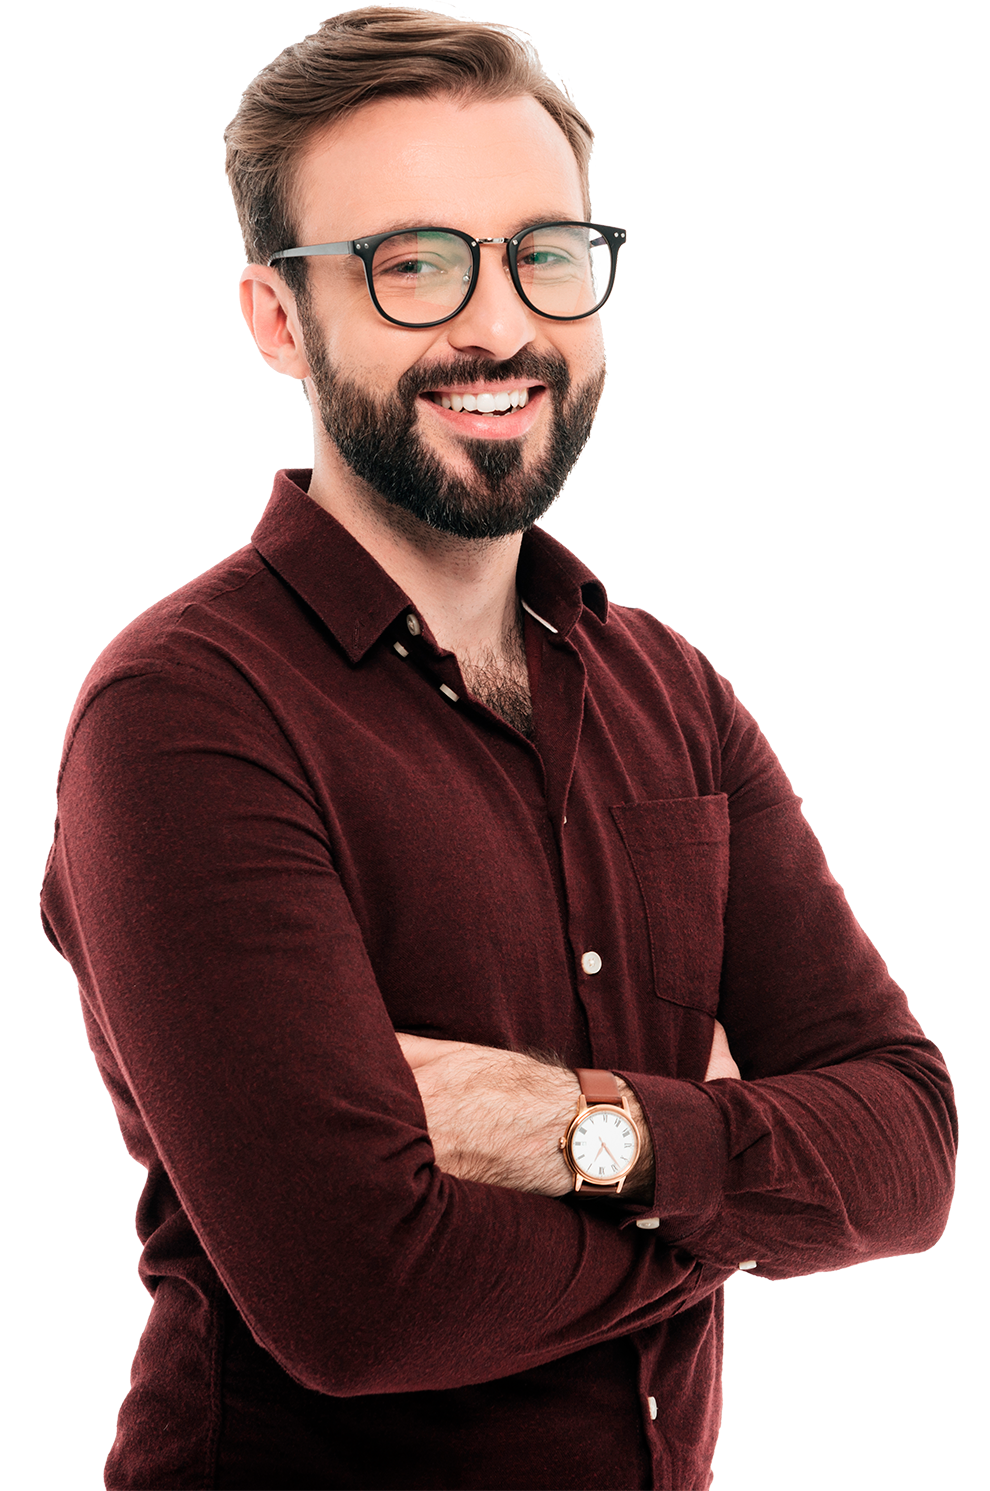
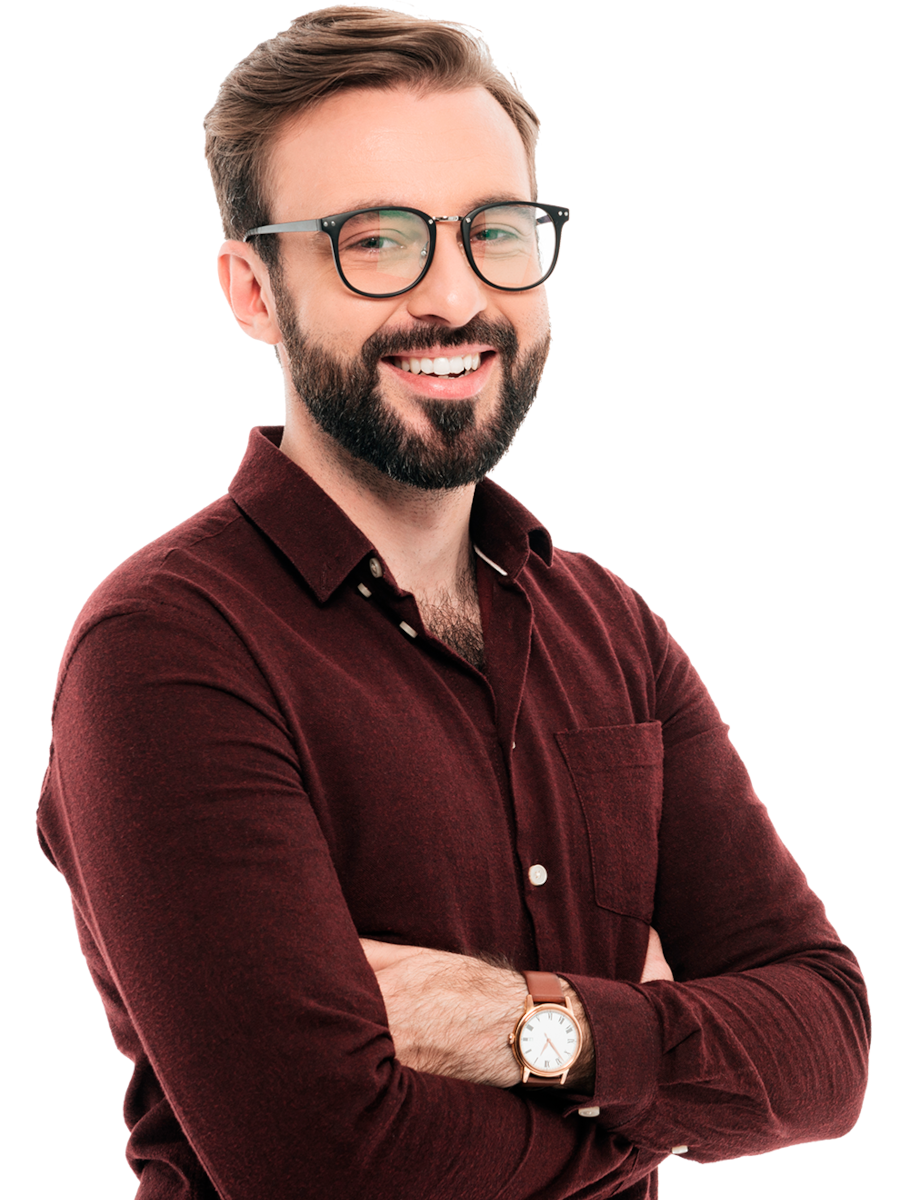
Обновление фоток на странице "О нас"

diff --git a/html/about-us.html b/html/about-us.html
@@ -50,22 +50,22 @@
                 <p>Международный мастер</p>
             </div>
             <div class="teacher-card">
-                <img src="/img/teacher3.jpg" alt="Тренер 3">
+                <img src="/img/teacher3.png" alt="Тренер 3">
                 <h3>Алексей Волков</h3>
                 <p>Преподаёт 15 лет</p>
                 <p>ФИДЕ мастер</p>
+            </div>
+            <div class="teacher-card">
+                <img src="/img/teacher5.png" alt="Тренер 5">
+                <h3>Сергей Егоров</h3>
+                <p>Преподаёт 11 лет</p>
+                <p>Гроссмейстер</p>
             </div>
             <div class="teacher-card">
                 <img src="/img/teacher4.png" alt="Тренер 4">
                 <h3>Наталья Орлова</h3>
                 <p>Преподаёт 7 лет</p>
                 <p>КМС</p>
-            </div>
-            <div class="teacher-card">
-                <img src="/img/teacher5.jpg" alt="Тренер 5">
-                <h3>Сергей Егоров</h3>
-                <p>Преподаёт 11 лет</p>
-                <p>Гроссмейстер</p>
             </div>
         </div>
     </section>
@@ -100,25 +100,25 @@
         <h2>Отзывы родителей</h2>
         <div class="reviews-slider">
             <div class="review">
-                <img src="/img/parent1.jpg" alt="Родитель 1">
+                <img src="/img/parent1.png" alt="Родитель 1">
                 <p class="stars">★★★★★</p>
                 <p>«Отличная школа! Ребёнок в восторге от занятий и уже стал играть сильнее меня!»</p>
                 <h4>Ольга, мама Артёма</h4>
             </div>
             <div class="review">
-                <img src="/img/parent2.jpg" alt="Родитель 2">
+                <img src="/img/parent2.png" alt="Родитель 2">
                 <p class="stars">★★★★★</p>
                 <p>«Тренеры очень внимательные и профессиональные. Мы довольны результатом!»</p>
                 <h4>Александр, папа Кати</h4>
             </div>
             <div class="review">
-                <img src="/img/parent3.jpg" alt="Родитель 3">
+                <img src="/img/parent3.png" alt="Родитель 3">
                 <p class="stars">★★★★★</p>
                 <p>«Сын стал собраннее и научился мыслить стратегически. Спасибо школе!»</p>
                 <h4>Татьяна, мама Ильи</h4>
             </div>
             <div class="review">
-                <img src="/img/parent4.jpg" alt="Родитель 4">
+                <img src="/img/parent4.png" alt="Родитель 4">
                 <p class="stars">★★★★★</p>
                 <p>«Прекрасное обучение. Удобный онлайн-формат, ребёнку интересно на каждом занятии!»</p>
                 <h4>Денис, папа Вики</h4>

diff --git a/css/about-us.css b/css/about-us.css
@@ -219,10 +219,11 @@ header {
   height: 60px;
   border-radius: 50%;
   object-fit: cover;
-  margin-bottom: 10px;
+  margin-bottom: 5px;
 }
 
 .review .stars {
+  margin-top: 0;
   color: #FFD700;
   font-size: 18px;
   margin-bottom: 10px;
